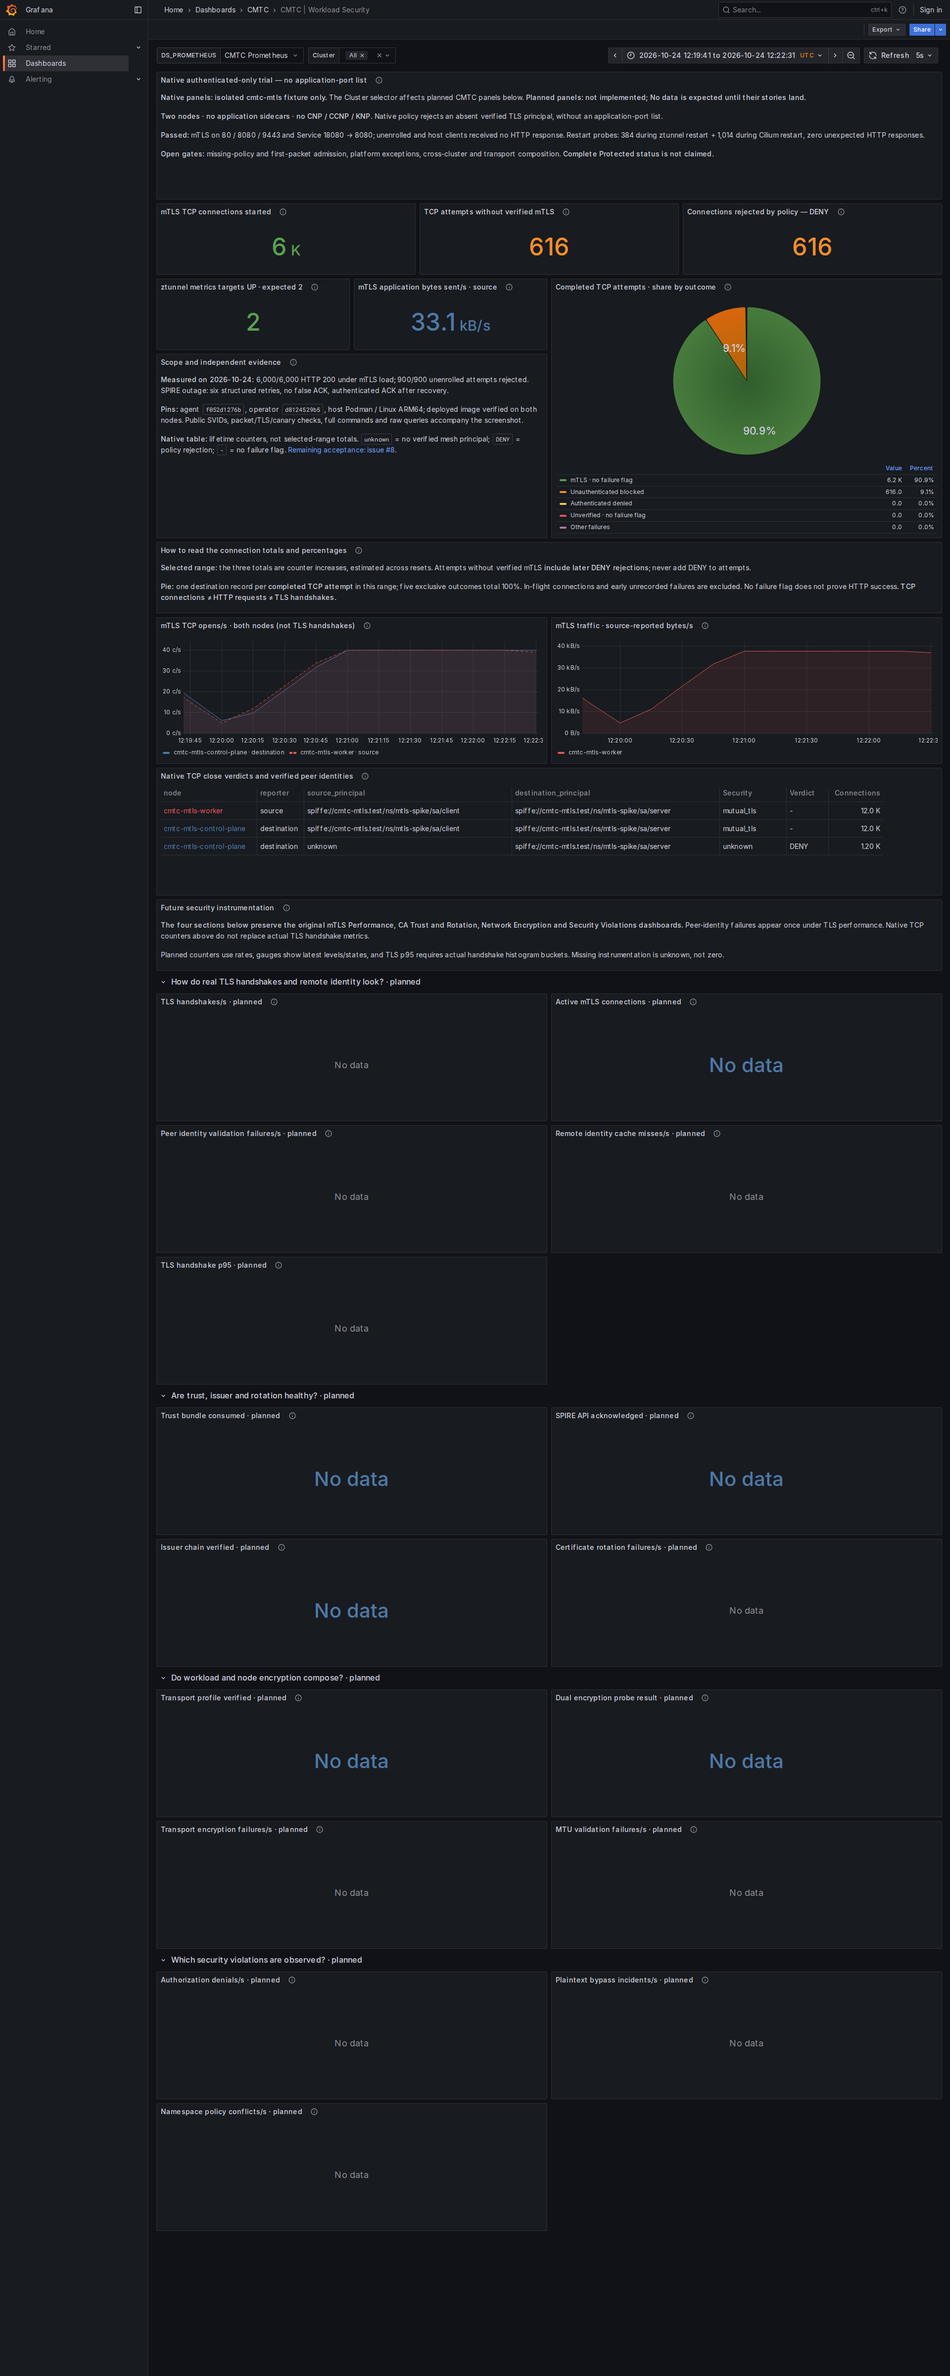
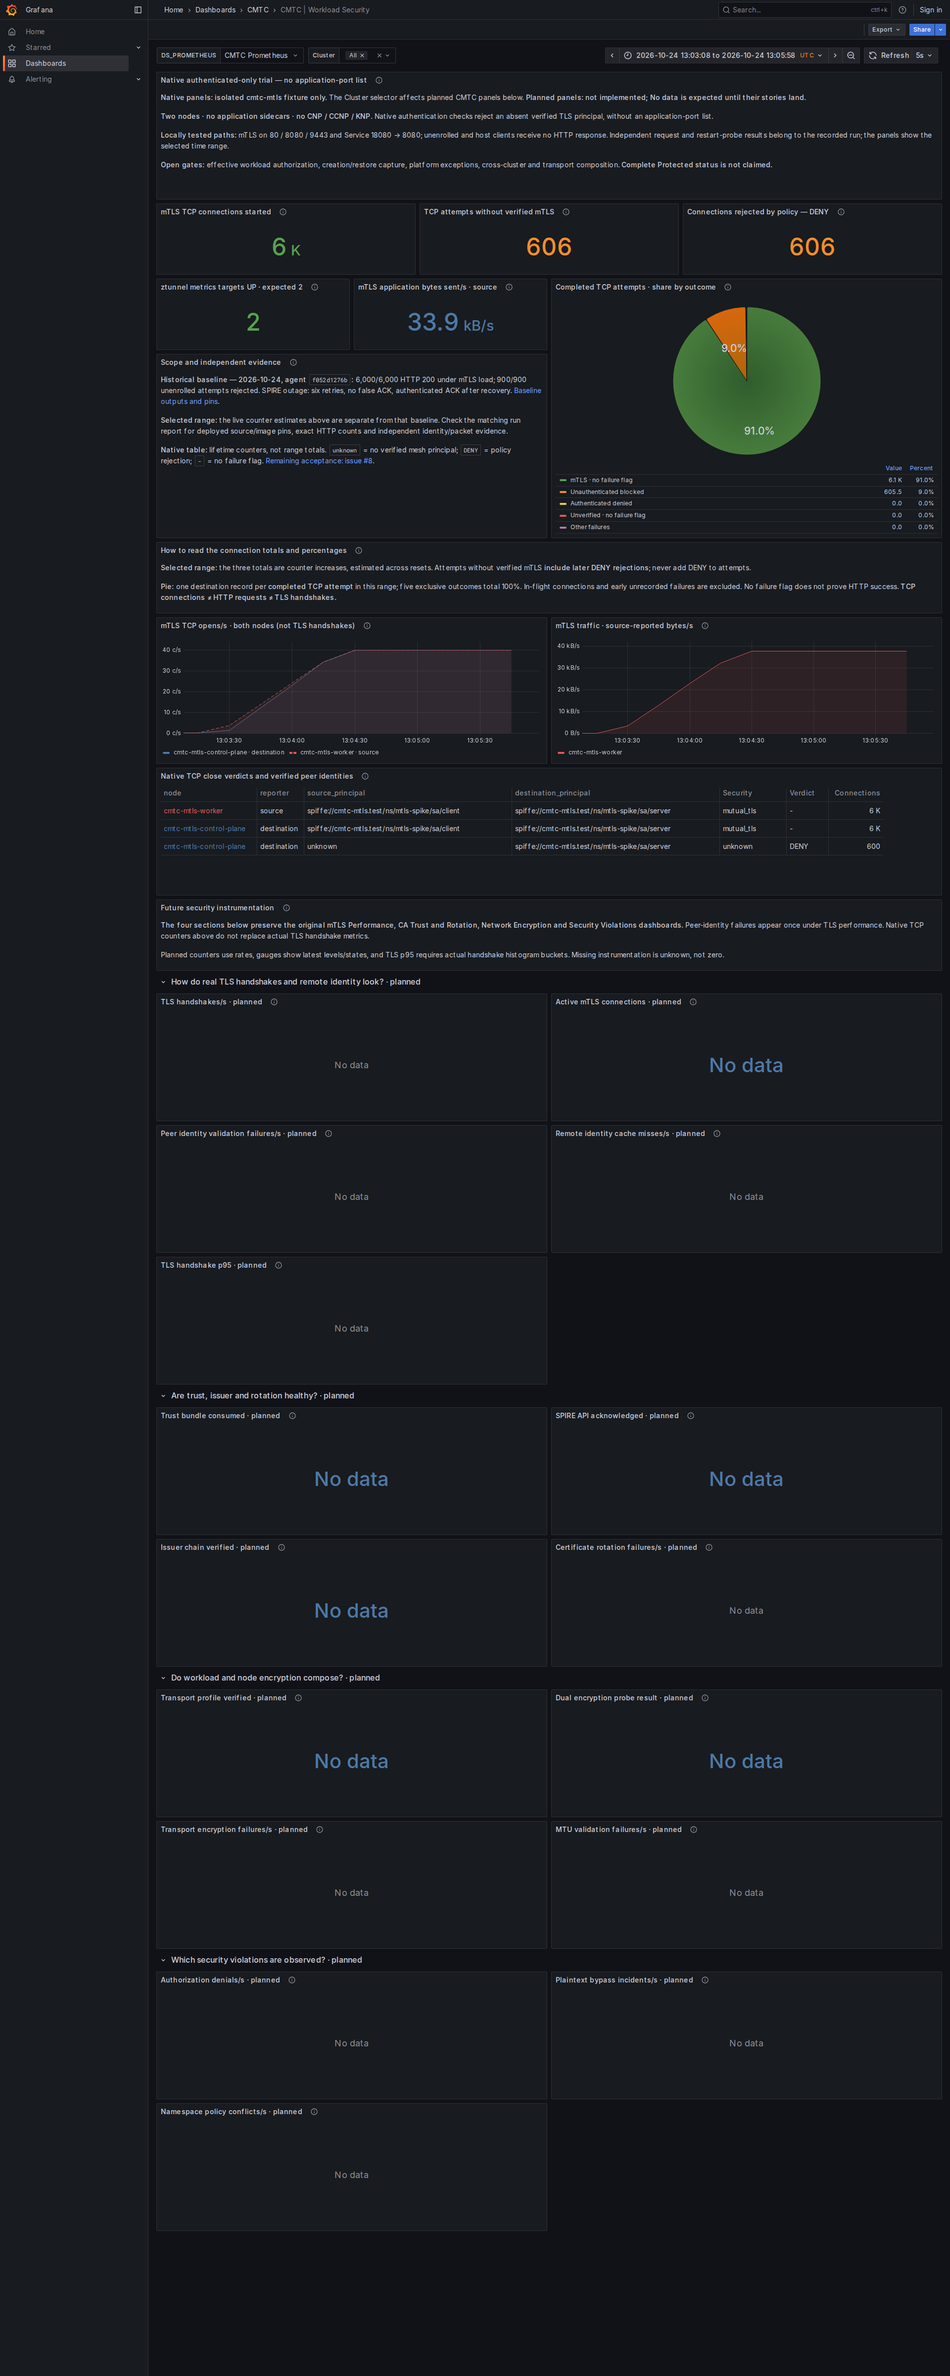
test: qualify reenrollment capture and recovery locally

diff --git a/scripts/lab/mtls/policy_absence.py b/scripts/lab/mtls/policy_absence.py
@@ -71,16 +71,34 @@ def main():
     def verify_proxy(stage, dynamic):
         observations = []
         for node in ['cmtc-mtls-control-plane', 'cmtc-mtls-worker']:
-            dump = json.loads(run(['docker', 'exec', node, 'curl', '-fsS', '--max-time', '5',
-                                   'http://127.0.0.1:15000/config_dump']).stdout)
-            assert dump['version']['gitRevision'] == args.proxy_source, 'Wrong proxy source'
-            assert dump['config'].get('requireInboundMtls') is True, 'Proxy authentication floor disabled'
-            if dynamic:
-                assert any(p['name'] == 'cilium_require_mtls' for p in dump['policies']), 'Dynamic rule not restored'
-            else:
-                assert dump['policies'] == [] and dump['staticConfig']['policies'] == [], 'Policy cache is not empty'
+            # DaemonSet readiness can precede the admin listener and policy
+            # convergence. Bound this separate observation, logging each attempt.
+            started = time.monotonic()
+            deadline = started + 30
+            attempts = 0
+            while True:
+                attempts += 1
+                response = run(['docker', 'exec', node, 'curl', '-fsS', '--max-time', '2',
+                                'http://127.0.0.1:15000/config_dump'], check=False, timeout=5)
+                reason = f'Admin API unavailable: curl exit {response.returncode}'
+                if response.returncode == 0:
+                    dump = json.loads(response.stdout)
+                    # A wrong binary or disabled floor is a hard failure, not a
+                    # transient readiness condition to conceal with retries.
+                    assert dump['version']['gitRevision'] == args.proxy_source, 'Wrong proxy source'
+                    assert dump['config'].get('requireInboundMtls') is True, 'Proxy authentication floor disabled'
+                    converged = (any(p['name'] == 'cilium_require_mtls' for p in dump['policies'])
+                                 if dynamic else dump['policies'] == [] and dump['staticConfig']['policies'] == [])
+                    if converged:
+                        break
+                    reason = 'Dynamic rule not restored' if dynamic else 'Policy cache is not empty'
+                remaining = deadline - time.monotonic()
+                if remaining <= 0:
+                    raise RuntimeError(f'{node}: {reason} after {attempts} attempts')
+                time.sleep(min(0.5, remaining))
             observations.append({'node': node, 'version': dump['version'],
-                                 'requireInboundMtls': True, 'policies': dump['policies']})
+                                 'requireInboundMtls': True, 'policies': dump['policies'],
+                                 'attempts': attempts, 'elapsedSeconds': time.monotonic() - started})
         (out / f'proxy-{stage}.json').write_text(json.dumps(observations, indent=2) + '\n')
 
     try:

diff --git a/LOCAL_SECURITY_VALIDATION.md b/LOCAL_SECURITY_VALIDATION.md
@@ -7,7 +7,7 @@ This is an in-progress CMTC-101/403 qualification on the MacBook's isolated two-
 | Component | Qualified local source | Runtime |
 | --- | --- | --- |
[3 lines of base64/hex data omitted]
 | Chart strict command | `66cfc59f3e94dd11264f189fc62c0eaf3e9f7bff`, included in the agent branch | `proxy-mtls` when `encryption.ztunnel.requireMtls=true`; an explicit compatible proxy image is required |
 | Proxy test-helper cleanup | `a1c3e9cd8f4b23128d70c434c4d01295fb252f9b` | Source/test-only follow-up; this commit is not the deployed proxy binary |
 
@@ -28,8 +28,9 @@ The proxy's strict process setting requires a verified inbound TLS identity befo
 | Test-selection guard | A nonexistent filter and an incorrect expected count both fail; the actual 4/11 selections pass |
 | CLI/configuration matrix | Default and `proxy` remain compatible; environment opt-in works; `proxy-mtls` cannot be downgraded with `REQUIRE_INBOUND_MTLS=false`; invalid values fail before startup |
 | Strict proxy with earlier agent `f052d127` | 57 path checks with the native rule and 57 with both nodes' dynamic/static policy caches empty; 2,666 continuous unauthenticated restart probes, zero HTTP responses; original rule restored |
-| New agent `63ce823` with strict proxy | 57 present-policy and 57 empty-cache path checks; 2,581 continuous restart probes, zero unexpected HTTP responses; original policy restored |
-| Fresh cross-node application load | 3,000/3,000 HTTP 200 through Service plus 3,000/3,000 through Pod IP; 600 unenrolled attempts rejected without HTTP response |
+| Earlier agent `63ce823` with strict proxy | 57 present-policy and 57 empty-cache path checks; 2,581 continuous restart probes, zero unexpected HTTP responses; original policy restored |
+| Reenrollment agent `5e3a2a46` with strict proxy | 57 present-policy and 57 empty-cache path checks; 2,684 continuous restart probes, zero unexpected HTTP responses; original policy restored |
+| Fresh cross-node application load on agent `5e3a2a46` | 3,000/3,000 HTTP 200 through Service plus 3,000/3,000 through Pod IP, each over 150.05 seconds; 600 unenrolled attempts rejected without HTTP response |
 | Grafana | Native queries and the exclusive percentage denominator pass; both themes render; unimplemented planned signals remain explicitly unavailable |
 
 Path checks cover application ports 80, 8080 and 9443, Service port 18080 translated to 8080, same-node and cross-node unenrolled sources, and both node hosts. No CNP, CCNP or Kubernetes NetworkPolicy is used to create these authentication results. The proxy unit cases additionally cover ports 1 and 65535. This is sampled port-independent logic, not an exhaustive network-path proof.
@@ -44,13 +45,17 @@ The new Cilium agent requires an explicit successful ACK, rejects malformed/miss
 
 Local real-socket race tests cover ACK/NACK, missing ACK, malformed data, timeout/recovery, queue saturation, cancellation, late ACK rejection, next-update reuse, replacement during a stalled ACK and shutdown during hello/snapshot waits. The privileged network namespace, iptables and rolling-update cases pass together with repository lint and Go vet. Structured logs identify actual acknowledged endpoint enrollment and its elapsed duration. An ACK alone does not prove SVID validity, policy convergence or protection.
 
+The reenrollment follow-up reproduces a failed DEL whose capture rules were removed while the observed cache retained the endpoint. The old fast path returned success without restoring capture or sending another ADD. Agent `5e3a2a46` now reasserts capture and waits for a fresh ADD ACK on every enrollment retry. The regression first failed against the old source, then passed with the fix using real network namespaces, iptables and socket ACK/NACK traffic. Full privileged/race, vet and lint checks pass. Cancellation before filesystem access and after capture installation remains bounded; installed capture is retained on enrollment cancellation.
+
+The first empty-cache run on this image passed its traffic checks but failed its recovery observation: DaemonSet readiness preceded the proxy admin listener. Its failed report is retained. The harness now separately bounds admin/policy convergence, records every attempt, and immediately rejects a wrong source or disabled authentication floor. The complete rerun passed with `trialPassed=true` and `restored=true`; one restored node required two observations over 0.56 seconds. The table uses this final run, not the earlier failed recovery report.
+
 Research and complete proposed code are tracked in [issue #11](https://github.com/ephico2real2/clustermesh-trust-controller/issues/11) and [issue #12](https://github.com/ephico2real2/clustermesh-trust-controller/issues/12). The primary agent reviews proposals and tests selected changes locally. One proposed metadata-before-capture ordering was rejected because the current void enrollment callback could allow CNI success without installing a hold; the revised proposal preserves capture before conversion failure.
 
 ## Packet and Grafana evidence
 
-Ten canary-bearing application requests succeeded during the recorded VXLAN capture. It contains 19,038 packet observations, including 14,538 inner-TCP-port-15008 observations. A TLS-record-header check identified 9,724 application-data, four handshake-record and two change-cipher-spec packet observations. The canary was absent from individual packet bytes. These are packet observations, including duplicates, not TLS handshake totals. The filter does not cover every possible route, and per-packet searching does not replace TCP stream reassembly or a plaintext detection control.
+Ten canary-bearing application requests succeeded during the earlier VXLAN capture on agent `f052d127` with the same strict proxy `d79d3dfa`. It contains 19,038 packet observations, including 14,538 inner-TCP-port-15008 observations. A TLS-record-header check identified 9,724 application-data, four handshake-record and two change-cipher-spec packet observations. The canary was absent from individual packet bytes. These are packet observations, including duplicates, not TLS handshake totals. The filter does not cover every possible route, and per-packet searching does not replace TCP stream reassembly or a plaintext detection control. This capture is historical; it was not repeated for the reenrollment agent.
 
-The screenshots show the fresh 6,000-request/600-rejection load window. Their older explanatory text also references the preceding qualified trial; exact source/window/request results for this increment are recorded above and in the raw bundle. Native counter increases are estimates and include scrape/window effects; they are not exact HTTP request totals. Planned panels intentionally retain their unavailable state.
+The screenshots show the fresh 6,000-request/600-rejection window on agent `5e3a2a46`, from `1792846988092` to `1792847158200` epoch milliseconds. Dashboard captions now explicitly identify the separately published `f052d127` trial as historical, so its older request/restart totals cannot be confused with the selected range. The five native TCP outcome estimates total 100%: 90.95% mTLS with no failure flag, 9.05% unauthenticated blocked, and zero in the remaining three categories. Native counter increases are estimates and include scrape/window effects; they are not exact HTTP request totals. Planned panels intentionally retain their unavailable state.
 
 ![Workload Security after local load, dark theme](docs/images/persistent-authenticated-only-dark.png)
 
@@ -58,9 +63,11 @@ The screenshots show the fresh 6,000-request/600-rejection load window. Their ol
 
 Raw local commands, failed and passing logs, image/source evidence, empty-cache snapshots, traffic output, packet captures, query vectors and screenshots are retained at `/private/tmp/cmtc-ztunnel-build-tools/`. No root private key or workload credential is included in this evidence. Publication remains deferred.
 
+A hashed copy of the selected evidence is committed locally on `ci-captures` at `2ea99a6535532a3635b61d23d50bcbbb2fa07652`, under `/private/tmp/cmtc-mac-captures/2026-10-24-persistent-mtls-zds-validation/`. Its readable README, summary, failed/passing reports, exact patches, scripts and both screenshots remain available without relying on the build cache. This local commit has not been pushed.
+
 ## Remaining acceptance
 
-The next local increment addresses reenrollment after a failed DEL: cached enrollment cannot substitute for installed capture and a fresh ACK. Concurrent capture removal and intent transitions still require a generation-aware state machine. Endpoint creation must propagate enrollment failure before application startup, and running-pod enrollment needs a separate capture transition gate.
+Reenrollment after a failed DEL now requires installed capture and a fresh ACK. Concurrent capture removal and intent transitions still require a generation-aware state machine. Endpoint creation must propagate enrollment failure before application startup, and running-pod enrollment needs a separate capture transition gate. The agent's typed CNI admission proposal identifies the existing endpoint API error/cleanup path and fresh namespace/Pod UID checks; it remains a proposal until implemented, built and qualified with actual sandbox-start failure/recovery evidence.
 
 Both runtime tests of a copied proxy app label were denied after enrollment. Source review explains why: the current helper looks up `k8s:app`, while canonical label maps use `app`. Do not activate a label-spoofable exclusion by merely correcting that key. Remove the unnecessary host-network-proxy exemption after qualification, or use authoritative identity if one is required.
 

diff --git a/docs/handover/CODEX_START_HERE.md b/docs/handover/CODEX_START_HERE.md
@@ -6,6 +6,14 @@ The user explicitly renewed autonomous end-to-end CMTC implementation after dash
 
 The user also requires an agentic workflow to unblock delivery: delegate independent research/review with exact source, current modifications, failed output and security/lab constraints. Require technical ideas and complete implementation-ready code snippets or patches plus failure/recovery tests. The primary agent must review, integrate and qualify proposed fixes locally; agent agreement, zero-selected tests and skipped cases are not acceptance. Assign file ownership before allowing edits and preserve the local-first/CI-deferred mandate in every delegation.
 
+## Current local enforcement increment — 2026-10-24
+
+The isolated mTLS fixture now runs agent `5e3a2a46feccedd7220959903d2927321e11c7e2` and strict proxy `d79d3dfaef3d7afeb3552ea53cf90213141e95d3`; [source/image pins](../development/ztunnel-proxy.lock.json) and the root [local validation report](../../LOCAL_SECURITY_VALIDATION.md) supersede older deployed-version references below. The reenrollment fix reasserts capture and obtains a fresh ADD ACK after a failed DEL. Its privileged regression fails before the fix and passes afterward; race, vet and lint pass. The exact image passes 114 present/empty-policy path checks, 2,684 restart probes without unexpected HTTP, and fresh 6,000/6,000 HTTP 200 with 600 rejected unenrolled attempts. Both-theme captures retain the exact load window and distinguish historical captions from current counter estimates. The original authentication policy is restored; the failed first recovery observation and bounded admin-readiness fix are retained.
+
+The next slice is typed endpoint API/CNI startup admission. The research agent supplied complete gate, netns, Hive and API cleanup/HTTP test proposals, with conservative managed-Pod metadata prerequisites. They are proposal-only: gofmt parsing is not compilation or runtime acceptance. Review immutable UID cleanup, cache ID reuse and stale replay before enabling admission, then qualify actual sandbox/application startup failure and recovery. Running-pod relabel, restore and generation-aware capture removal remain separate gates. Local raw evidence and proposals are retained in `/private/tmp/cmtc-mac-captures/2026-10-24-persistent-mtls-zds-validation/`; publication is deferred.
+
+[CMTC-105](../agile/STORY_BACKGROUND_AND_GHERKIN.md#cmtc-105--cluster-identity-issuance-boundaries) now explains the example SPIFFE trust domain and requires same-name cross-cluster, unauthorized-issuer and failure/recovery tests. The final cryptographic cluster binding remains a design/implementation gate. Do not remove the ClusterMesh guard or enable Strict/Protected from these local increments.
+
 ## Dashboard consolidation — 2026-10-24
 
 The user's latest requirement is to preserve all nine existing dashboard domains and original JSON files while combining their coverage into one or two meaningful pages. Commit `923fed1` restores the nine originals unchanged to `observability/dashboards/` and includes all original metric meanings in two provisioned pages: Operations and Workload Security. Future signals stay visible with `planned` titles and BLOCKED evidence; do not remove their panels or substitute successful zero values. The twelve native mTLS panels remain semantically unchanged inside Workload Security. See the root [dashboard guide](../../DASHBOARD_GUIDE.md), [metric contracts](../../observability/METRICS.md) and `capabilities.json`. The generator selects chart types from metric meanings and uses the user's Tableau/table style; validators verify original hashes, coverage and actual scoped queries. Default browser capture now has five cases (two pages in two themes plus remote app). Prior eleven-page CI results below are historical and remain valid for their recorded source. [Local dashboard evidence](https://github.com/ephico2real2/clustermesh-trust-controller/blob/87fb20341d62904d2536efc840b975a49458be23/2026-10-24T0558Z-cmtc-consolidated-dashboards/README.md) records source `5d1ddc1`, 18,000 baseline HTTP successes, 6,000 cross-node mTLS HTTP successes, 900 rejected unenrolled attempts, both themes, typed queries and preserved originals. That artifact does not itself qualify an AMD64 CI run.

diff --git a/docs/agile/DELIVERY_STATUS.md b/docs/agile/DELIVERY_STATUS.md
@@ -22,6 +22,7 @@ The existing Podman MacBook builder and Ubuntu Colima kind runtime remain separa
 - Proxy source checkout: `/private/tmp/cmtc-ztunnel-enforcement`, local `feat/persistent-inbound-mtls`, starting at the exact deployed Cilium ztunnel source `5bb9cf256b10a209ae9bc0624ddfbf27dbc439de`.
 - The immutable process authentication floor is locally implemented and deployed at proxy `d79d3dfaef3d7afeb3552ea53cf90213141e95d3`. Required missing policy references deny; explicit DENY still wins. The proxy passed present/empty-policy-cache path and restart trials. Test-helper follow-up `a1c3e9c` removes all five upstream Clippy warnings; full target lint and actual four CRI/eleven SPIRE tests pass without exceptions.
 - Cilium `63ce8231092cb97ac2ae2b66ed0bfe2d7cec11fd` implements explicit bounded ACKs, canceled-stream retirement, expired-queue rejection and serialized connection replacement. Actual ARM64 race, privileged namespace/iptables, lint/vet and deployed 57-path/1,246-restart-probe checks pass. Its separate empty-cache trial also passed and restored the original policy. See the root [local security report](../../LOCAL_SECURITY_VALIDATION.md).
-- [Issue #11](https://github.com/ephico2real2/clustermesh-trust-controller/issues/11) tracks strict startup/lint qualification; [issue #12](https://github.com/ephico2real2/clustermesh-trust-controller/issues/12) tracks ACK/capture lifecycle. Agents supply complete technical proposals; the primary agent reviews and locally tests selected changes. Active next slice: reenrollment after DEL failure must reassert capture and obtain a fresh ACK; retain capture on invalid metadata until mandatory CNI admission exists.
+- Cilium `5e3a2a46feccedd7220959903d2927321e11c7e2` fixes cached reenrollment after a DEL NACK: capture is reasserted and a fresh ADD ACK is required. The original privileged regression fails before the fix; full namespace/iptables/race, vet and lint checks pass afterward. The exact Podman-built image passes 114 present/empty-policy path checks and 2,684 continuous restart probes, with no unexpected HTTP. The final empty-cache run restores the original policy; the earlier admin-startup observation race and its bounded harness repair are retained.
+- [Issue #11](https://github.com/ephico2real2/clustermesh-trust-controller/issues/11) tracks strict startup/lint qualification; [issue #12](https://github.com/ephico2real2/clustermesh-trust-controller/issues/12) tracks ACK/capture lifecycle. Agents supply complete technical proposals; the primary agent reviews and locally tests selected changes. Active next slice: propagate enrolled-pod creation failure through the endpoint API/CNI path; verify fresh namespace/Pod UID and capture/ACK before startup, then qualify actual failure/recovery. The typed hook proposal remains unimplemented.
 - Trace the Cilium CNI/endpoint enrollment ordering separately. Its EndpointCreated callback currently logs enrollment errors, which cannot establish a mandatory first-packet gate.
 - Record command outputs, source/build identity, failures, requests, native policy verdicts and applicable packet/log evidence. Keep the story open until its full acceptance matrix is satisfied.
